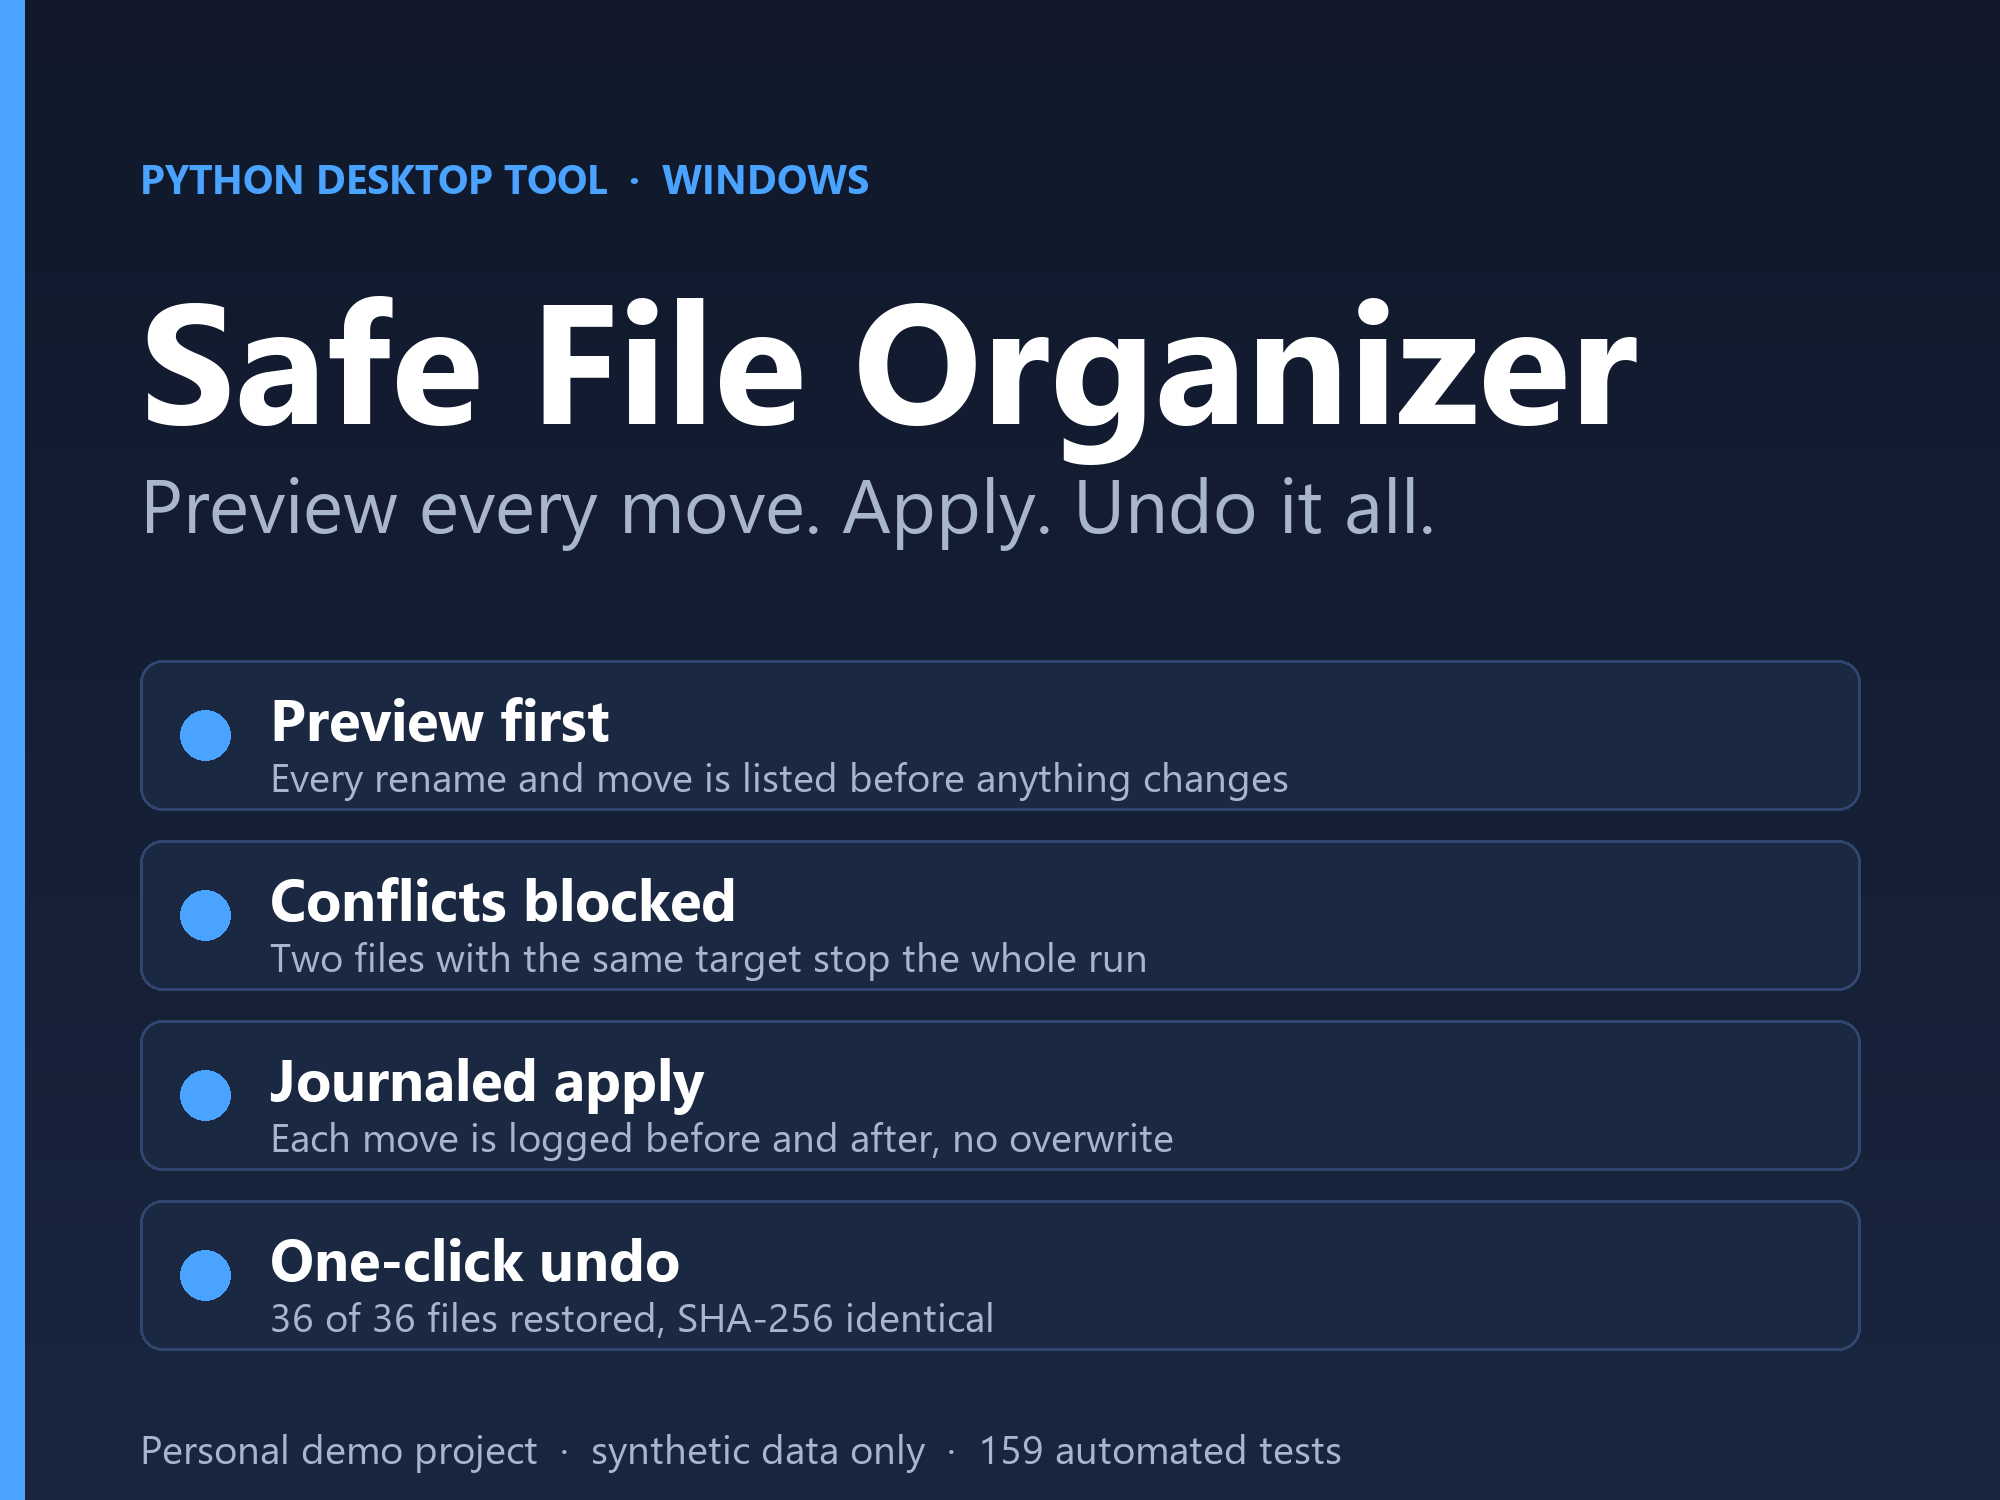
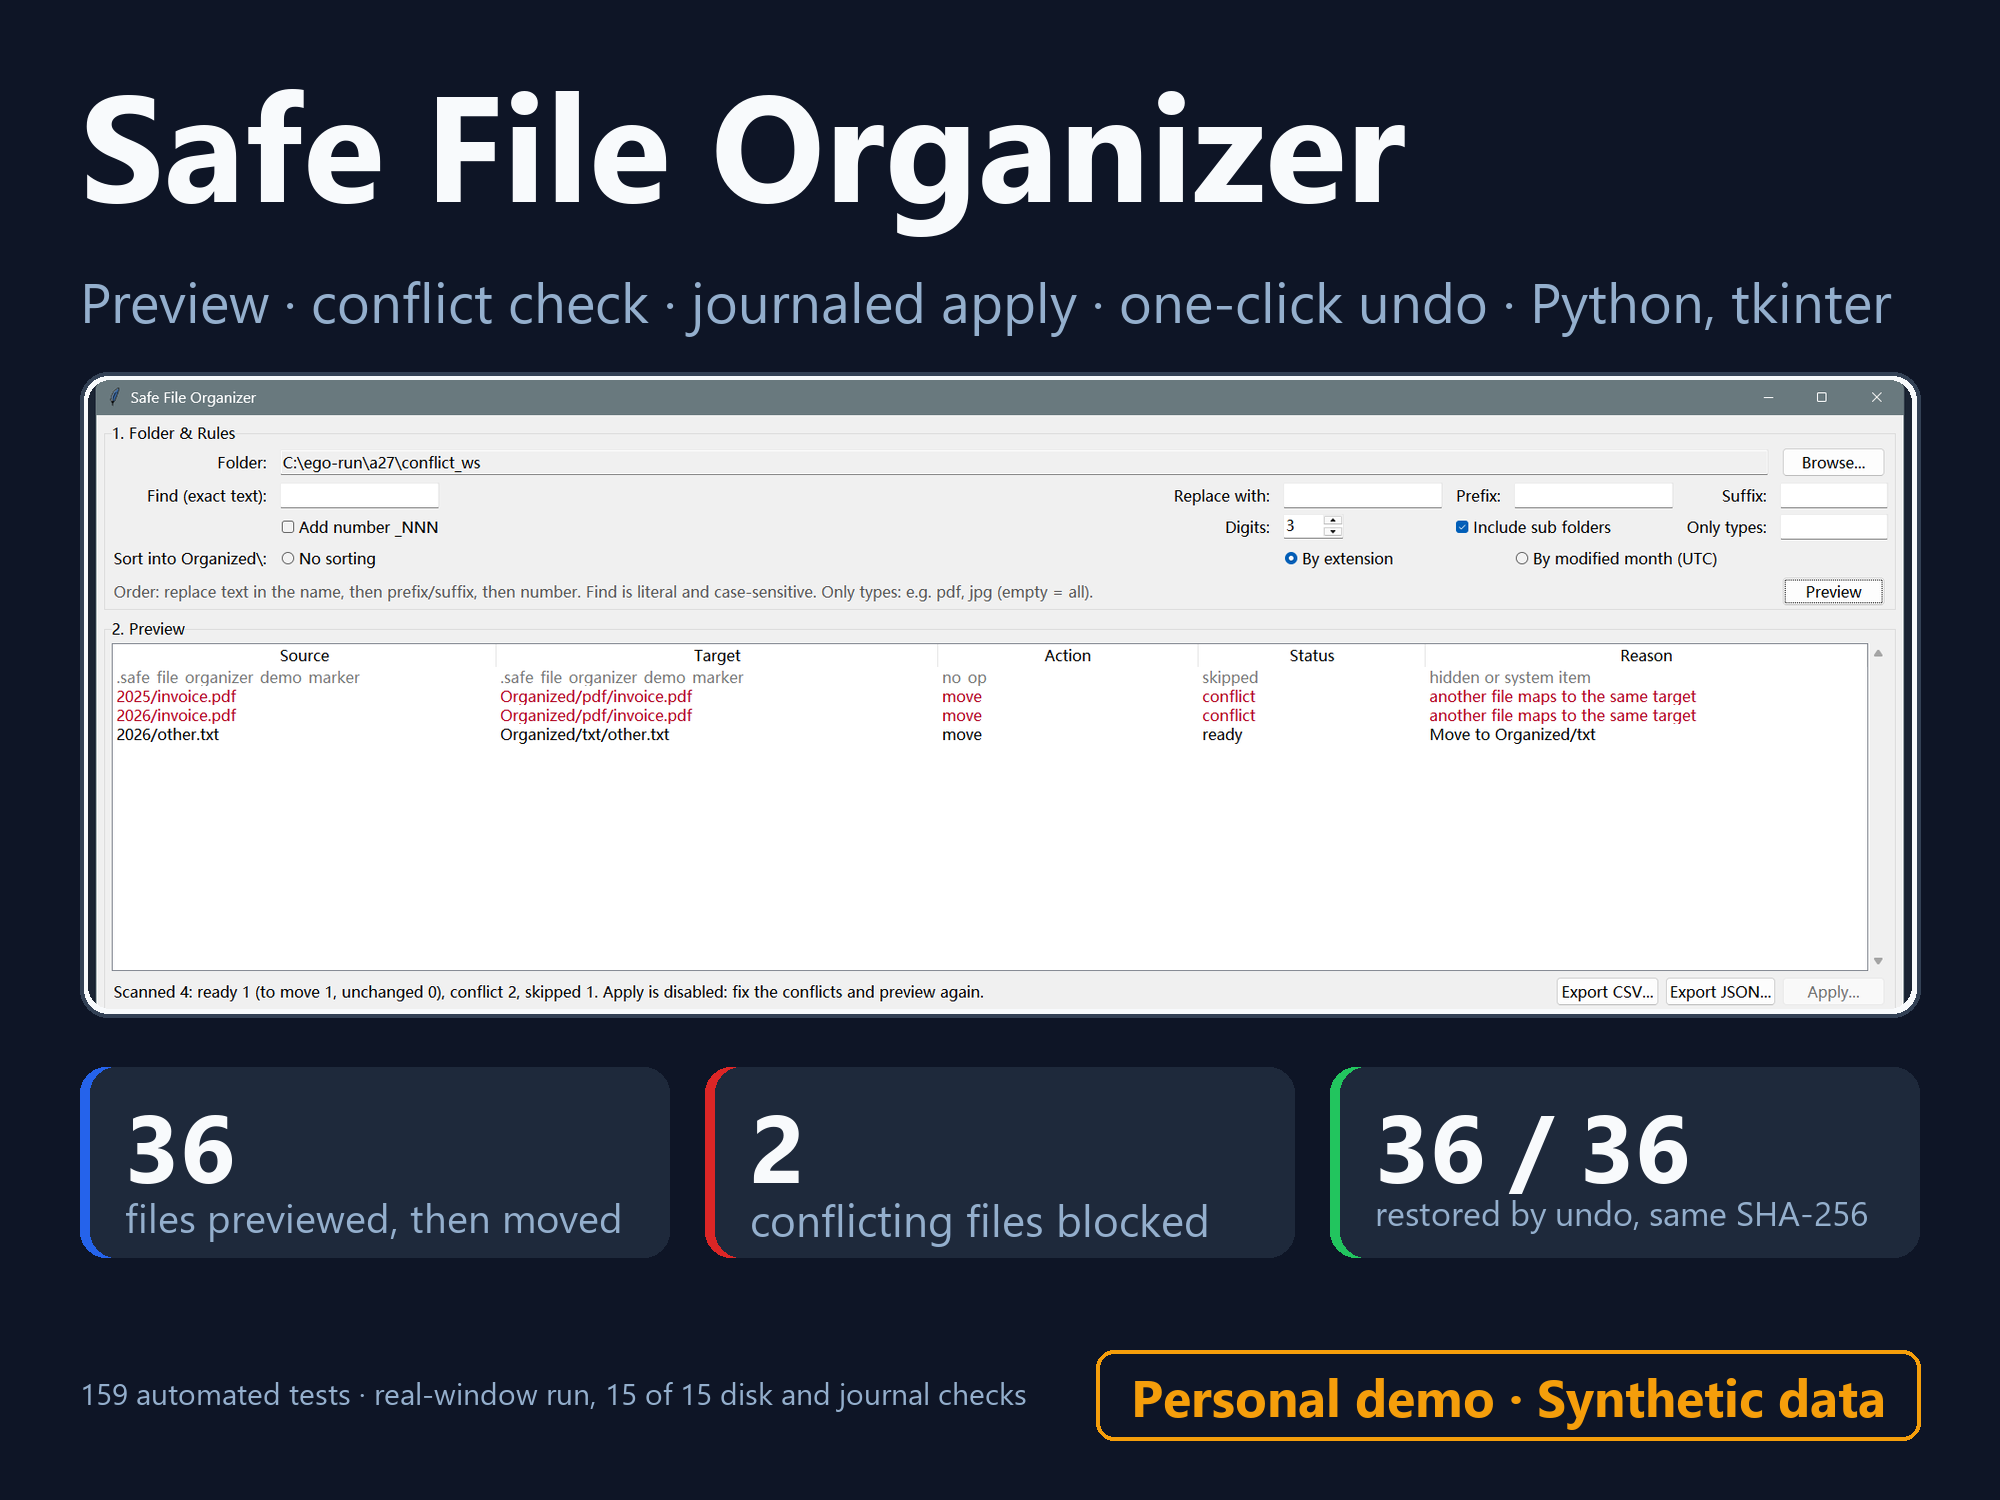
Stage 6: rebuild cover in csv-portfolio layout from real screenshot; correct delivery notes

diff --git a/tools/make_cover.py b/tools/make_cover.py
@@ -1,41 +1,77 @@
-"""Build deliverables/cover.png (2000x1500, 4:3) with PIL. Text and shapes only: no screenshot, no fake UI."""
+"""Build deliverables/cover.png (2000x1500, 4:3) with PIL, in the csv-cleaning-tool cover layout:
+title + subtitle, one real screenshot of the app in a rounded panel, three number cards, demo badge.
+
+The only UI pixels are a crop of docs/evidence/a27/03_conflict_blocked.png (a real-window A27 screenshot);
+nothing in it is redrawn. The numbers come from docs/evidence/a27/a27_checks.json and the journals.
+"""
 import os
 from PIL import Image, ImageDraw, ImageFont
 
+REPO = os.path.dirname(os.path.dirname(os.path.abspath(__file__)))
+SHOT = os.path.join(REPO, "docs", "evidence", "a27", "03_conflict_blocked.png")
+OUT = os.path.join(REPO, "deliverables", "cover.png")
 W, H = 2000, 1500
 F = r"C:\Windows\Fonts"
-def font(n, s): return ImageFont.truetype(os.path.join(F, n), s)
 
-im = Image.new("RGB", (W, H))
-px = ImageDraw.Draw(im)
-for y in range(H):  # vertical gradient
-    t = y / H
-    px.line([(0, y), (W, y)], fill=(int(16 + 10 * t), int(24 + 14 * t), int(42 + 22 * t)))
+
+def font(n, s):
+    return ImageFont.truetype(os.path.join(F, n), s)
+
+
+BG, CARD = (14, 21, 38), (30, 41, 59)
+WHITE, MUTED = (248, 250, 252), (148, 175, 205)
+BLUE, RED, GREEN, ORANGE = (37, 99, 235), (220, 38, 38), (34, 197, 94), (245, 158, 11)
+
+im = Image.new("RGB", (W, H), BG)
 d = ImageDraw.Draw(im)
-ACC, WHITE, MUTED = (74, 163, 255), (255, 255, 255), (168, 182, 205)
+
 
 def fit(text, name, size, maxw):
     while d.textlength(text, font=font(name, size)) > maxw:
         size -= 2
     return font(name, size)
 
-d.rectangle((0, 0, 24, H), fill=ACC)
-d.text((140, 150), "PYTHON DESKTOP TOOL  ·  WINDOWS", font=font("segoeuib.ttf", 40), fill=ACC)
-d.text((140, 240), "Safe File Organizer", font=fit("Safe File Organizer", "segoeuib.ttf", 170, 1720), fill=WHITE)
-d.text((140, 450), "Preview every move. Apply. Undo it all.", font=fit("Preview every move. Apply. Undo it all.", "segoeui.ttf", 76, 1720), fill=MUTED)
 
-points = [("Preview first", "Every rename and move is listed before anything changes"),
-          ("Conflicts blocked", "Two files with the same target stop the whole run"),
-          ("Journaled apply", "Each move is logged before and after, no overwrite"),
-          ("One-click undo", "36 of 36 files restored, SHA-256 identical")]
-y = 660
-for head, sub in points:
-    d.rounded_rectangle((140, y, 1860, y + 150), 22, fill=(27, 40, 66), outline=(48, 70, 110), width=3)
-    d.ellipse((180, y + 50, 230, y + 100), fill=ACC)
-    d.text((270, y + 18), head, font=font("segoeuib.ttf", 58), fill=WHITE)
-    d.text((270, y + 88), sub, font=fit(sub, "segoeui.ttf", 40, 1540), fill=MUTED)
-    y += 180
+title = "Safe File Organizer"
+sub = "Preview · conflict check · journaled apply · one-click undo · Python, tkinter"
+d.text((80, 40), title, font=fit(title, "segoeuib.ttf", 150, 1840), fill=WHITE)
+d.text((80, 262), sub, font=fit(sub, "segoeui.ttf", 58, 1840), fill=MUTED)
 
-d.text((140, 1420), "Personal demo project  ·  synthetic data only  ·  159 automated tests",
-       font=fit("Personal demo project  ·  synthetic data only  ·  159 automated tests", "segoeui.ttf", 40, 1720), fill=MUTED)
-im.save(os.path.join(os.path.dirname(os.path.dirname(os.path.abspath(__file__))), "deliverables", "cover.png"))
+# real screenshot: top part of the window (rules + preview with the two conflict rows), scaled to the panel
+px0, py0, px1 = 80, 372, 1920
+crop = Image.open(SHOT).convert("RGB").crop((0, 0, 1920, 662))
+inner_w = px1 - px0 - 16
+crop = crop.resize((inner_w, round(crop.height * inner_w / crop.width)), Image.LANCZOS)
+py1 = py0 + crop.height + 16
+d.rounded_rectangle((px0, py0, px1, py1), 28, fill=WHITE, outline=(51, 65, 85), width=4)
+mask = Image.new("L", crop.size, 0)
+ImageDraw.Draw(mask).rounded_rectangle((0, 0, crop.width - 1, crop.height - 1), 22, fill=255)
+im.paste(crop, (px0 + 8, py0 + 8), mask)
+
+# three number cards
+cards = [("36", "files previewed, then moved", BLUE),
+         ("2", "conflicting files blocked", RED),
+         ("36 / 36", "restored by undo, same SHA-256", GREEN)]
+cy0, cy1, gap = py1 + 50, py1 + 50 + 190, 36
+cw = (1840 - 2 * gap) // 3
+for i, (num, label, col) in enumerate(cards):
+    x0 = 80 + i * (cw + gap)
+    d.rounded_rectangle((x0, cy0, x0 + cw, cy1), 26, fill=col)
+    d.rounded_rectangle((x0 + 10, cy0, x0 + cw, cy1), 26, fill=CARD)
+    d.text((x0 + 45, cy0 + 12), num, font=font("segoeuib.ttf", 96), fill=WHITE)
+    d.text((x0 + 45, cy0 + 122), label, font=fit(label, "segoeui.ttf", 44, cw - 70), fill=MUTED)
+
+# badge, bottom right, same wording as the csv cover
+badge = "Personal demo · Synthetic data"
+bf = font("segoeuib.ttf", 52)
+bw = int(d.textlength(badge, font=bf))
+bx1, by1 = 1920, H - 60
+bx0, by0 = bx1 - bw - 70, by1 - 90
+d.rounded_rectangle((bx0, by0, bx1, by1), 18, outline=ORANGE, width=4)
+d.text((bx0 + 35, by0 + 10), badge, font=bf, fill=ORANGE)
+foot = "159 automated tests · real-window run, 15 of 15 disk and journal checks"
+d.text((80, by0 + 22), foot, font=fit(foot, "segoeui.ttf", 38, bx0 - 120), fill=MUTED)
+
+assert by0 > cy1 + 20, "layout overflow"
+im.save(OUT)
+print(OUT, im.size, os.path.getsize(OUT))

diff --git a/docs/DELIVERY.md b/docs/DELIVERY.md
@@ -11,28 +11,44 @@ Personal demo project. Synthetic data only. Not a client project. Nothing was pu
 | Acceptance and test report | `docs/ACCEPTANCE.md` (A27 row), `docs/TEST_REPORT.md` | Updated from the files above; `python -m pytest -q tests`: 159 passed, 0 failed, 0 skipped, 10.73 s | done |
 | Raw recording | `video/raw/safe-file-organizer-real-run.mp4` | ffprobe: 60.87 s, 1920x1080, 30 fps, 2,091,621 bytes; recorded with ffmpeg gdigrab during the A27 run, not edited | done |
 | Finished video | `video/out/safe-file-organizer-demo.mp4` (made by `tools/make_video.py`) | ffprobe: H.264, 1920x1080, 30 fps, 1793 frames, 59.77 s, 2,422,668 bytes, no audio. Cut = raw 1.0 s to 60.8 s, English captions burned in. Caption presence was checked by pixel statistics at four timestamps | done, see limitation 2 |
-| Cover | `deliverables/cover.png` (made by `tools/make_cover.py`) | PIL check: 2000x1500, 133,316 bytes. Text and shapes only | done, see limitation 2 |
+| Cover | `deliverables/cover.png` (made by `tools/make_cover.py`) | Rebuilt in the follow-up pass in the csv-cleaning-tool cover layout (title, subtitle, real screenshot panel, three number cards, orange "Personal demo · Synthetic data" badge). Only UI pixels: a crop of the real A27 screenshot `03_conflict_blocked.png`. 2000x1500, 309,350 bytes. Viewed and compared with the csv cover | done |
 | Upwork draft | `deliverables/UPWORK.md` | Title 53 characters (limit 70); description 456 characters (limit 600), opens with the personal-demo/synthetic-data disclosure | done |
 
 ## Limitations and not verified
 
-1. **Screenshots were not visually reviewed in the final pass.** Opening image files failed with a network error in two
-   earlier runs, so this run did not open images. The A27 result rests on `a27_checks.json` (15/15) and the journal
-   files. The check that each screenshot matches the journal and the disk is NOT claimed; only the disk and journal
-   states at each step were machine-checked.
-2. **The finished video and the cover were not watched or viewed.** Caption timing was set from ffmpeg scene-change times of the
-   raw recording and the script's step order; caption text and layout were not checked by eye. Cover text fit was
-   handled in code (font size shrinks to the box), not reviewed visually. Please look at both before use.
-3. The cover does not copy the csv-cleaning-tool cover; it follows its size (2000x1500), English text and
-   product-name-plus-key-points idea only. That cover was not opened this run either.
+1. **Screenshot cross-check: done in the follow-up pass.** All 8 screenshots were opened and compared with the
+   journals, the frozen mapping and the machine checks; no contradiction (table in `docs/evidence/a27/A27_SUMMARY.md`).
+   Display note, not fixed because `src/` is frozen: the tables do not draw `_` on most rows (row height clips the
+   glyph); names on disk are correct.
+2. **Videos: sampled, not watched end to end.** Frames of the finished video were extracted and viewed at 3, 8, 14,
+   15, 16.5, 18, 19.5, 21, 22, 30, 38, 46 and 54 s. Each caption matched what the frame shows: intro, picker, rules,
+   conflict interception (about 16-21 s, both invoice.pdf rows red, Apply disabled), demo folder, rules, preview
+   36 ready / 0 conflicts, Apply done 36, Undo restored 36. Frames between the samples were not viewed and nothing
+   was listened to (there is no audio).
+3. The cover now follows the csv-cleaning-tool cover layout (see the table); it was opened and compared with it.
 4. This ffmpeg build has no `drawtext` or `subtitles` filter, so captions are PNG overlays made with PIL.
-5. The desktop was covered by a plain full-screen backdrop window during the run so private desktop windows are not
-   recorded. The native folder picker opens in the user's Documents folder, so the raw recording (and the finished
-   video) show that folder's names for about a second before the sandbox path is typed (the first picker view was seen
-   in an earlier test screenshot; the finished video was not re-watched). Check both videos before sharing them publicly.
+5. **Privacy check before publishing.** A full-screen backdrop window hid the rest of the desktop during the run. The
+   earlier note that the picker first shows the Documents folder was wrong: raw frames at 5-7.5 s show it opening on a
+   leftover sandbox from an earlier attempt (`C:\ego-run\a27tmp\run1\demo_workspace`, synthetic folders only). But in
+   every picker view, in the raw recording, the finished video and `02_folder_dialog.png`, the left pane shows this
+   machine's Quick Access entries (图片, 音乐, 视频, 学习资料, Game) and drives (系统 (C:), Google Drive, 本地磁盘 (Z:)).
+   The Windows UI is Chinese-locale. Decide whether that is acceptable before sharing publicly.
 6. Window position (320,180) and widget coordinates in `a27_ui_run.py` are fixed for this 2560x1440 display and the
    current window layout. The native picker button click assumes the Chinese-locale Windows dialog size.
 7. A12 (different volume) is still simulated only. Permission and full-disk failures are still injected only.
 8. The first attempt of the run failed at a folder-picker step (the picker needs Select-folder clicked, not Enter);
    the driver was fixed and the run repeated from a new sandbox. The evidence and video come from the last run only.
 9. `src/` was not changed in stage 6.
+10. **Intermittent Tk init error in the test suite.** In the follow-up pass `python -m pytest -q tests` ran 6 times:
+    3 x 159 passed, 3 x 158 passed + 1 error. Each error was a Tcl init failure while a `tests/test_ui.py` fixture
+    created `Tk()` ("Can't find a usable init.tcl" / "invalid command name tcl_findLibrary"), never a failed
+    assertion, and not always in the same test. Not fixed; tests and `src/` unchanged.
+
+## Follow-up pass (2026-11-04)
+
+When this pass started, `main` already held the five stage-6 commits on top of the round-4 fix `780978f` (same tree
+as `review/v1.0` `d66c542`), and `origin/main` already pointed at `d850233`. The A27 run, the raw recording and the
+finished video were **not** redone; they were checked: screenshot cross-check (limitation 1), video frame sampling
+(limitation 2), ffprobe values re-read (raw 60.87 s / 1823 frames / 2,091,621 bytes; finished 59.77 s / 1793 frames /
+2,422,668 bytes, both 1920x1080 H.264 30 fps). The cover was rebuilt. This pass made new local commits only; nothing
+was pushed.

diff --git a/PROGRESS.md b/PROGRESS.md
@@ -81,4 +81,6 @@ Blocked items: none.
 Final test counts: 159 passed, 0 failed, 0 skipped (`python -m pytest -q tests`; 158 existing, 1 new). Single run, no Tk flake observed.
 
 ## Stage 6 - A27 real UI run and portfolio materials
-A27 passed 15/15 machine checks on the real window (see docs/DELIVERY.md and docs/evidence/a27/A27_SUMMARY.md). Raw recording, finished video, cover and Upwork draft produced. Visual review of screenshots, video and cover not done. src/ unchanged. Tests: 159 passed.
+A27 passed 15/15 machine checks on the real window (see docs/DELIVERY.md and docs/evidence/a27/A27_SUMMARY.md). Raw recording, finished video, cover and Upwork draft produced. src/ unchanged. Tests: 159 passed.
+
+Follow-up pass: all 8 A27 screenshots cross-checked against the journals and the frozen mapping (no contradiction; `_` not drawn on most table rows, display only). Finished video sampled at 13 timestamps, captions match the frames. Cover rebuilt in the csv-cover layout from a real screenshot. DELIVERY.md privacy note corrected (picker opens on an old sandbox, not Documents; Quick Access names are visible). Tests: 6 runs, 3 x 159 passed, 3 x 158 passed + 1 intermittent Tk init error in test_ui (environment, not fixed).

diff --git a/deliverables/UPWORK.md b/deliverables/UPWORK.md
@@ -37,7 +37,7 @@ afterwards and no frame was altered or inserted. All files in it are synthetic.
 
 | # | File | Note |
 |---|---|---|
-| 1 | `deliverables/cover.png` | Thumbnail, 2000x1500 (4:3; Upwork recommends 1000x750 or larger), drawn with text and shapes only |
+| 1 | `deliverables/cover.png` | Thumbnail, 2000x1500 (4:3; Upwork recommends 1000x750 or larger); the app panel is a crop of a real A27 screenshot (conflict preview) |
 | 2 | `video/out/safe-file-organizer-demo.mp4` | 59.77 s, 1920x1080, 30 fps, 2.4 MB (2,422,668 bytes), no audio, English captions |
 | 3 | Link | Not set: nothing has been published. Add the repository link only after the owner publishes it. |
 
